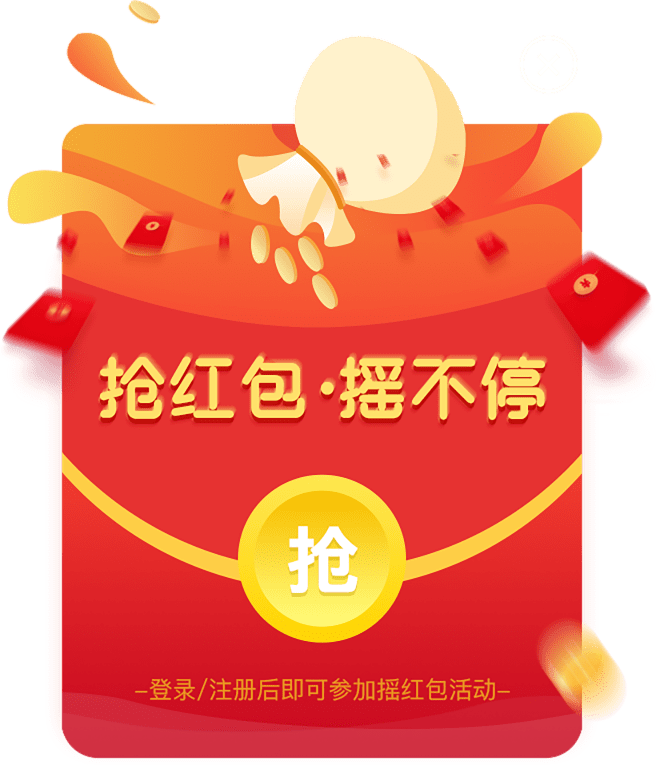
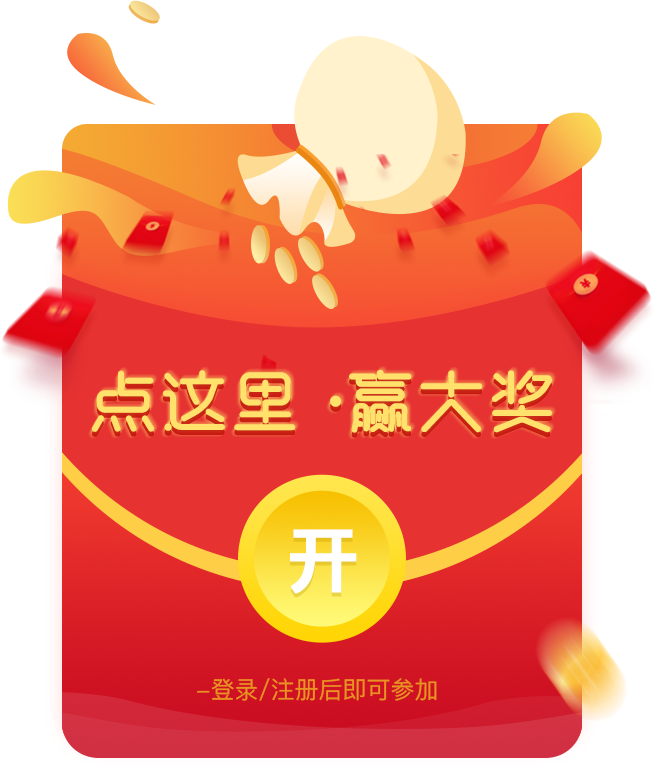
党校-为

Changed region(s): [[0.122, 0.451, 0.8537, 0.5712], [0.2134, 0.8719, 0.7622, 0.932], [0.4268, 0.6915, 0.5488, 0.7817]]

diff --git a/ace/ace-sapp-society/page/index/index.js b/ace/ace-sapp-society/page/index/index.js
@@ -234,15 +234,15 @@ Page({
         if (!util.getSysUser()) {
             that.initUserData();
         }
-        that.data.timeout = setTimeout(function () {
-            console.log(that.data.timeout);
-            that.setData({
-                showActivityModal: true,
-            });
-            that.beforeShowModel();
-            clearTimeout(that.data.timeout);
-            console.log(that.data.timeout);
-        }, 1000);
+        // that.data.timeout = setTimeout(function () {
+        //     console.log(that.data.timeout);
+        //     that.setData({
+        //         showActivityModal: true,
+        //     });
+        //     that.beforeShowModel();
+        //     clearTimeout(that.data.timeout);
+        //     console.log(that.data.timeout);
+        // }, 1000);
         that.activityIng(5);
         that.initReport();
     },
@@ -291,8 +291,8 @@ Page({
         
         if (util.getSysUser()){
             wx.previewImage({
-                current: 'http://zx.huacainfo.com/group1/M00/00/49/i-AA41wcSYOAXdxiAAPbIscZUqU165.png?filename=二维码.png', // 当前显示图片的http链接
-                urls: ['http://zx.huacainfo.com/group1/M00/00/49/i-AA41wcSYOAXdxiAAPbIscZUqU165.png?filename=二维码.png'] // 需要预览的图片http链接列表
+                current: 'http://zx.huacainfo.com/group1/M00/00/4F/i-AA41xKY3SAXBREAAHZNCCy7zY483.jpg?filename=9.jpg', // 当前显示图片的http链接
+                urls: ['http://zx.huacainfo.com/group1/M00/00/4F/i-AA41xKY3SAXBREAAHZNCCy7zY483.jpg?filename=9.jpg'] // 需要预览的图片http链接列表
             })
         }else{
             wx.navigateTo({
